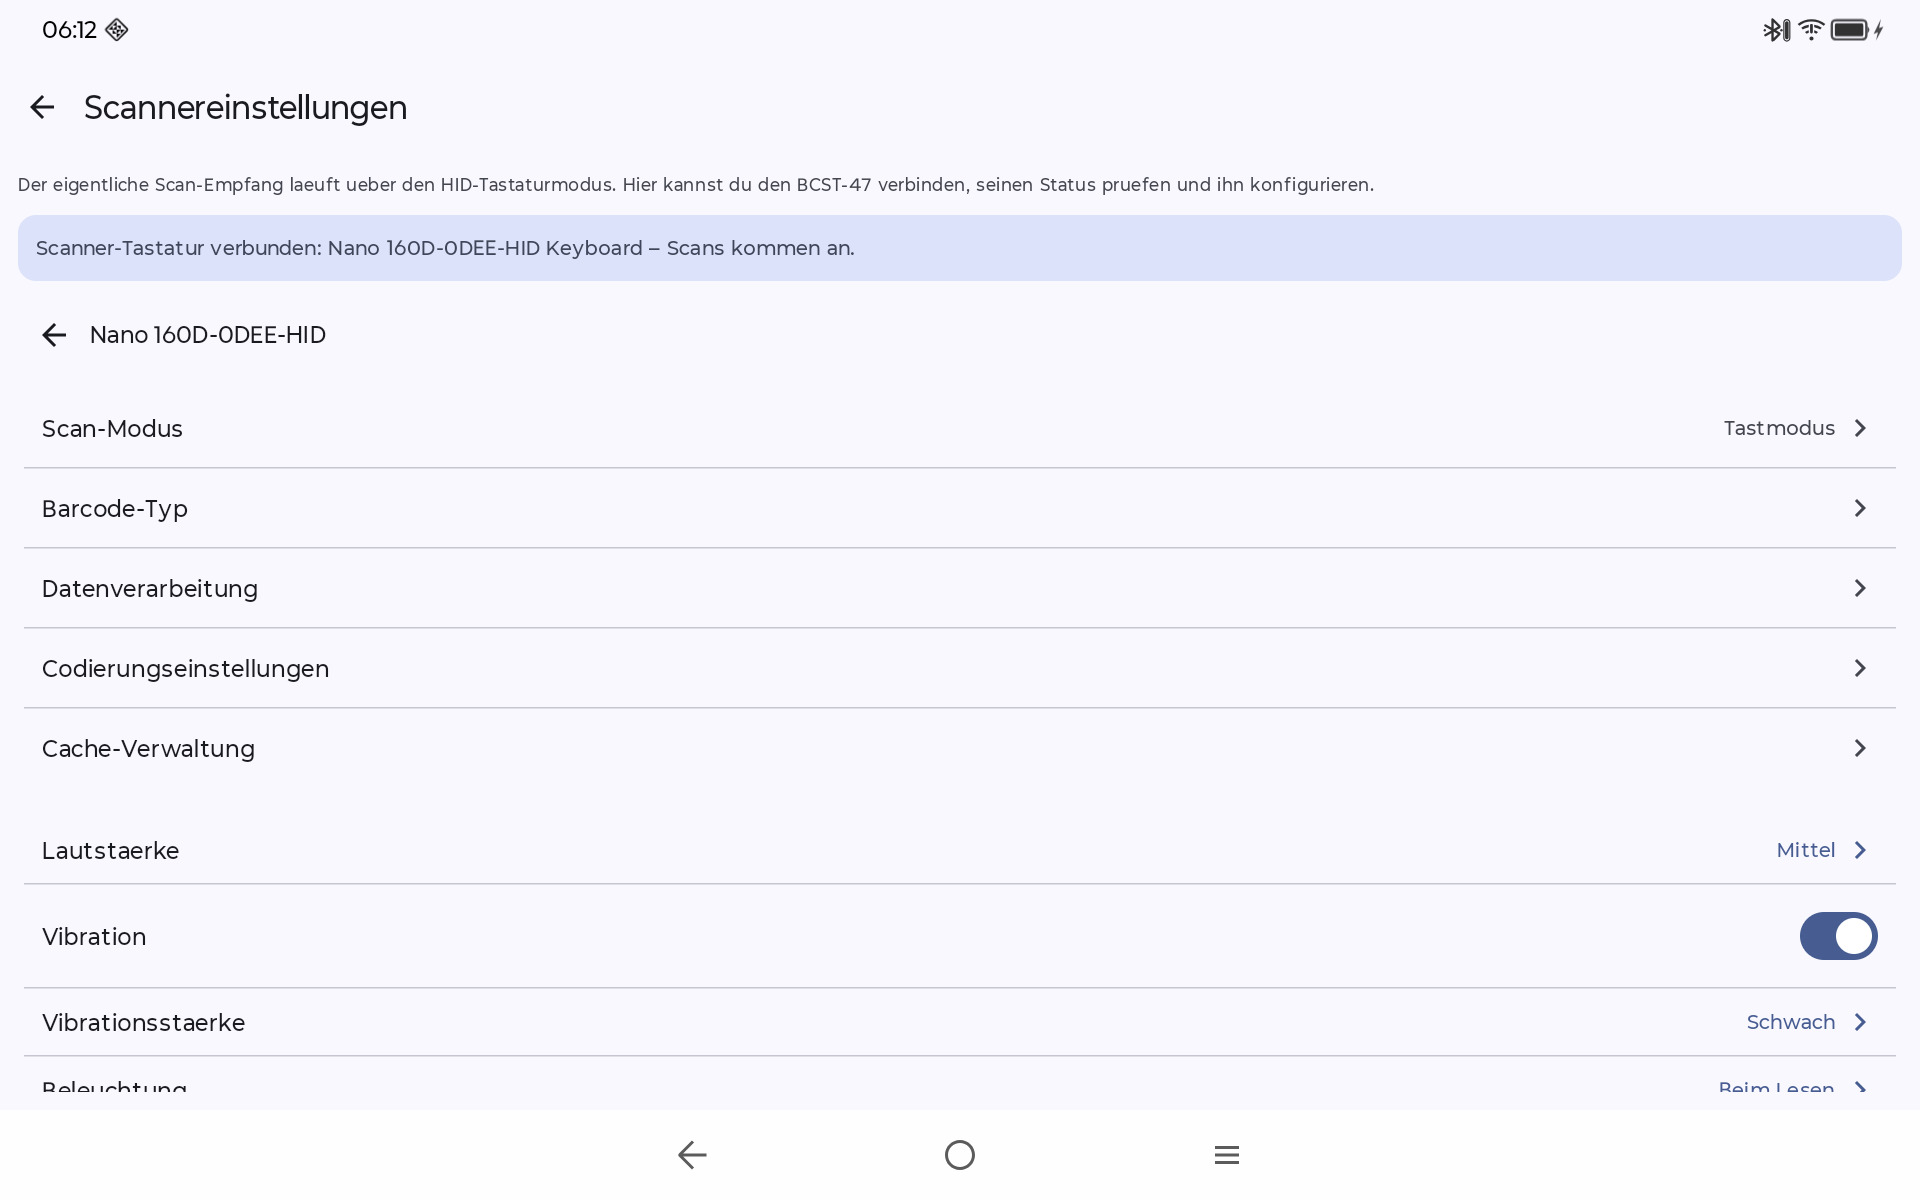
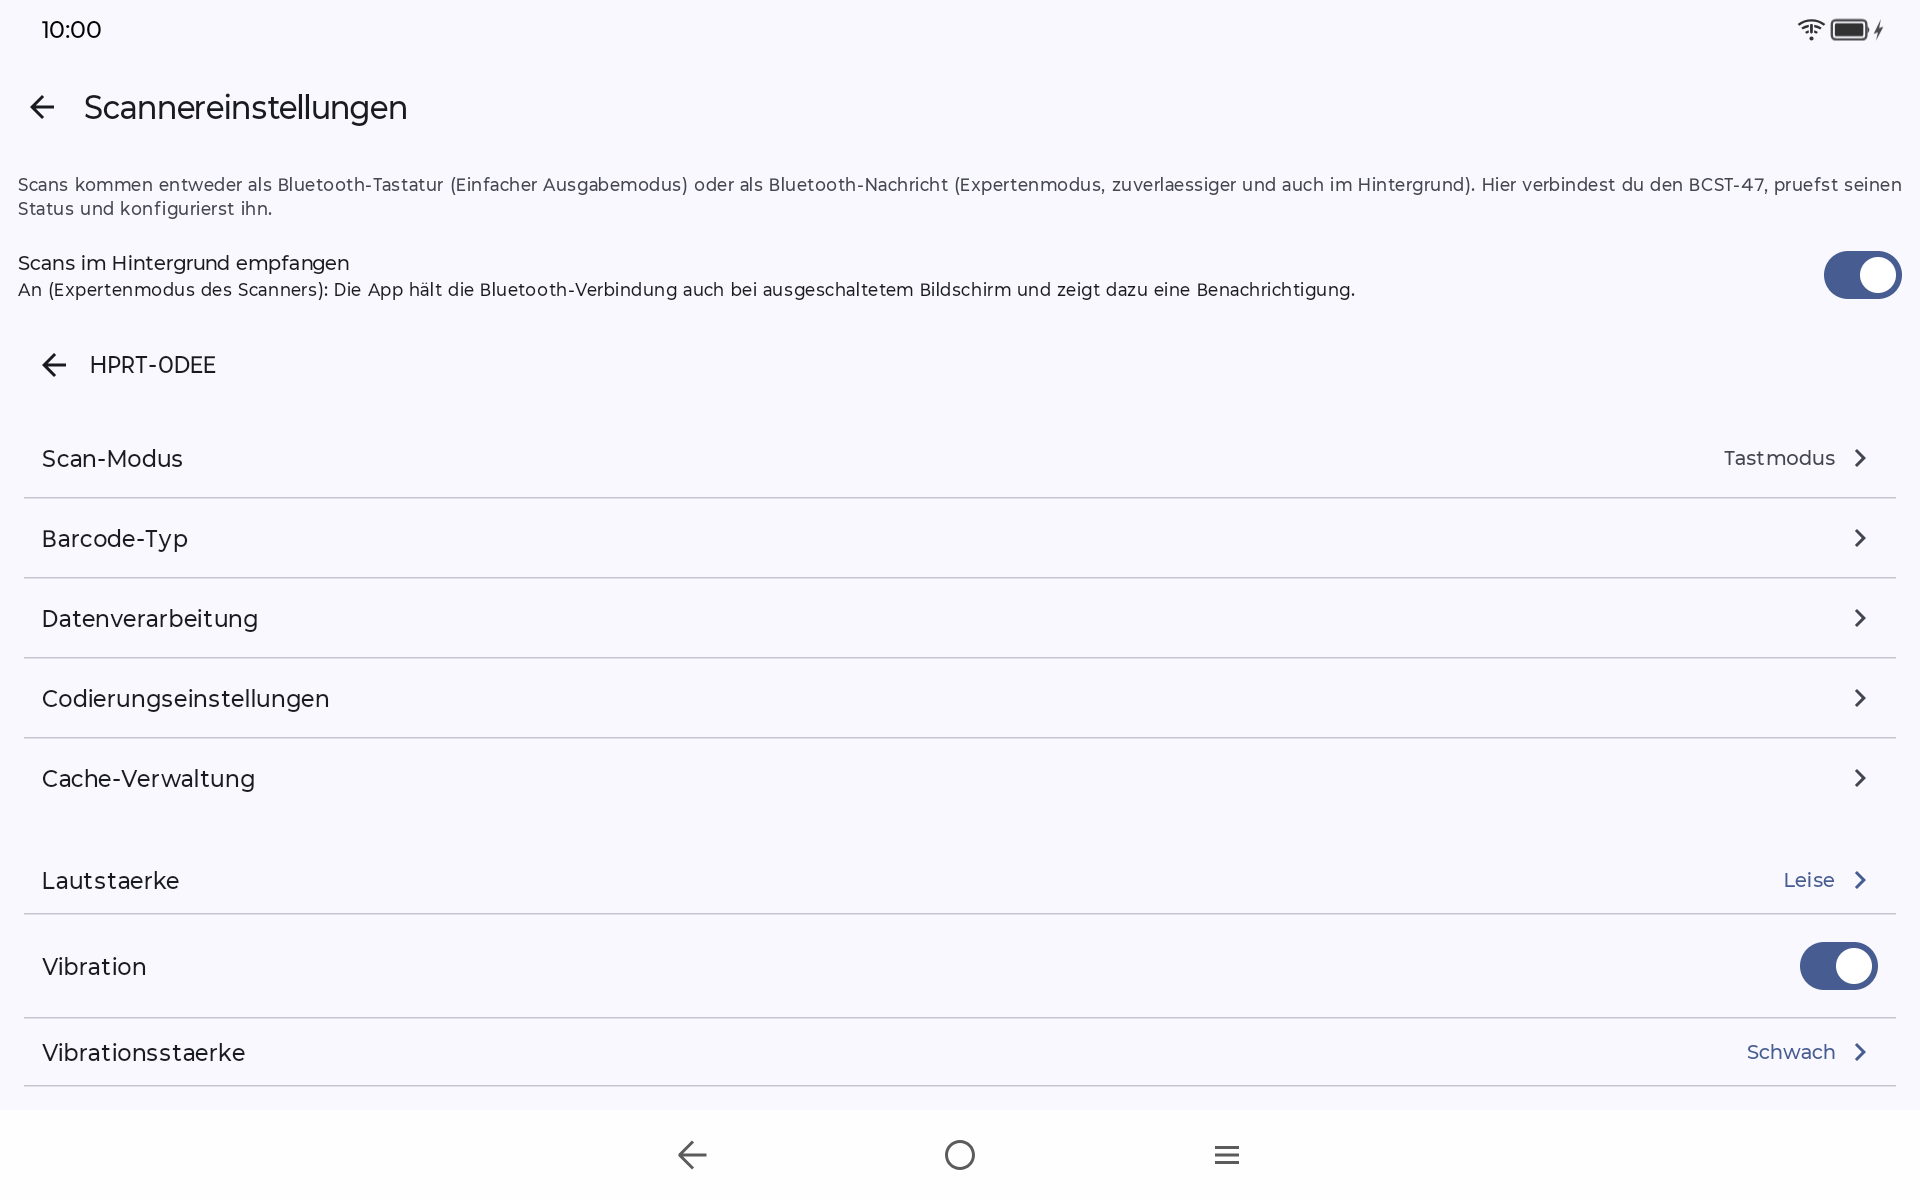
README und Screenshots aktualisiert (Handy/Tablet); Scanner-Karte: Knoepfe brechen um
Claude-Session: https://claude.ai/code/session_01D7UtGmAD4Chy5oNHdd54nN

diff --git a/app/src/main/java/com/kenfenheuer/inventur/ui/ScannerScreen.kt b/app/src/main/java/com/kenfenheuer/inventur/ui/ScannerScreen.kt
@@ -552,7 +552,12 @@ private fun DeviceCard(
 
             Spacer(Modifier.size(8.dp))
 
-            Row(horizontalArrangement = Arrangement.spacedBy(8.dp), verticalAlignment = Alignment.CenterVertically) {
+            // FlowRow: auf schmalen Bildschirmen (Handy) brechen die Knoepfe um, statt zu schrumpfen.
+            @OptIn(ExperimentalLayoutApi::class)
+            FlowRow(
+                horizontalArrangement = Arrangement.spacedBy(8.dp),
+                verticalArrangement = Arrangement.spacedBy(4.dp),
+            ) {
                 if (!connected) {
                     Button(
                         enabled = !busy,

diff --git a/README.md b/README.md
@@ -61,6 +61,18 @@ auf Werkseinstellungen zurückzusetzen.
   <i>Startbildschirm &nbsp;·&nbsp; Inventurliste &nbsp;·&nbsp; Kamera-Scan &nbsp;·&nbsp; Nummer von Hand eingeben &nbsp;·&nbsp; Bemerkung erfassen &nbsp;·&nbsp; Über die App</i>
 </p>
 
+<p align="center">
+  <img src="docs/screenshots/scanner-phone.png" width="220" alt="Scannereinstellungen mit verbundenem Scanner im Expertenmodus">
+  &nbsp;&nbsp;
+  <img src="docs/screenshots/scanner-config-phone.png" width="220" alt="Scanner-Konfiguration nach Kategorien">
+  &nbsp;&nbsp;
+  <img src="docs/screenshots/scanner-reset-phone.png" width="220" alt="Scanner zurücksetzen (Werkseinstellungen) mit vier Barcodes">
+</p>
+
+<p align="center">
+  <i>Scannereinstellungen (Expertenmodus) &nbsp;·&nbsp; Konfiguration nach Kategorien &nbsp;·&nbsp; Scanner zurücksetzen (vier Barcodes)</i>
+</p>
+
 ### Tablet
 
 <p align="center">
@@ -73,19 +85,28 @@ auf Werkseinstellungen zurückzusetzen.
 <p align="center">
   <img src="docs/screenshots/device-dialog.png" width="420" alt="Dialog Gerät / Benutzer zum Festlegen der Kennung">
   &nbsp;&nbsp;
-  <img src="docs/screenshots/scanner.png" width="420" alt="Scannereinstellungen mit HID-Statusbanner und Modus-Barcodes">
+  <img src="docs/screenshots/scanner.png" width="420" alt="Scannereinstellungen mit verbundenem Scanner im Expertenmodus">
 </p>
 <p align="center">
-  <i>Geräte-/Benutzerkennung festlegen &nbsp;·&nbsp; Scannereinstellungen mit HID-Statusbanner</i>
+  <i>Geräte-/Benutzerkennung festlegen &nbsp;·&nbsp; Scannereinstellungen: Expertenmodus, Hintergrund-Empfang, Scanner-Cache</i>
 </p>
 
 <p align="center">
-  <img src="docs/screenshots/scanner-config.png" width="420" alt="Scanner-Konfiguration nach Kategorien gegliedert: Scan-Modus, Barcode-Typ, Datenverarbeitung, Codierungseinstellungen, Cache-Verwaltung">
+  <img src="docs/screenshots/scanner-hint.png" width="420" alt="Hinweis Kein Scanner verbunden mit Knopf zum Zurücksetzen">
   &nbsp;&nbsp;
-  <img src="docs/screenshots/mode-barcodes.png" width="420" alt="Moduswechsel-QR-Codes direkt auf dem Display">
+  <img src="docs/screenshots/scanner-reset.png" width="420" alt="Scanner zurücksetzen (Werkseinstellungen) mit vier Barcodes direkt auf dem Display">
 </p>
 <p align="center">
-  <i>Konfiguration nach Kategorien &nbsp;·&nbsp; Moduswechsel-QR-Codes (GATT ↔ HID) vom Display abscannen</i>
+  <i>Hinweis „Kein Scanner verbunden" &nbsp;·&nbsp; Scanner zurücksetzen: vier Barcodes vom Display abscannen</i>
+</p>
+
+<p align="center">
+  <img src="docs/screenshots/scanner-config.png" width="420" alt="Scanner-Konfiguration nach Kategorien gegliedert">
+  &nbsp;&nbsp;
+  <img src="docs/screenshots/scanner-config-backup.png" width="420" alt="Konfiguration: Einstellungen sichern und Sicherung einspielen">
+</p>
+<p align="center">
+  <i>Konfiguration nach Kategorien &nbsp;·&nbsp; Einstellungen sichern und Sicherung einspielen</i>
 </p>
 
 <p align="center">

diff --git a/CHANGELOG.md b/CHANGELOG.md
@@ -4,6 +4,14 @@ Alle nennenswerten Änderungen an der App **Inventur**.
 Format angelehnt an [Keep a Changelog](https://keepachangelog.com/de/1.1.0/);
 Versionierung nach `versionName (versionCode)`.
 
+## [Unveröffentlicht]
+
+### Behoben
+- Scanner-Karte: Die Knöpfe brechen auf schmalen Bildschirmen (Handy) um, statt zusammengequetscht zu werden.
+
+### Dokumentation
+- README und Screenshots (Handy und Tablet) auf den aktuellen Stand gebracht.
+
 ## [2.5 (19)] – 2026-10-01
 
 ### Hinzugefügt
